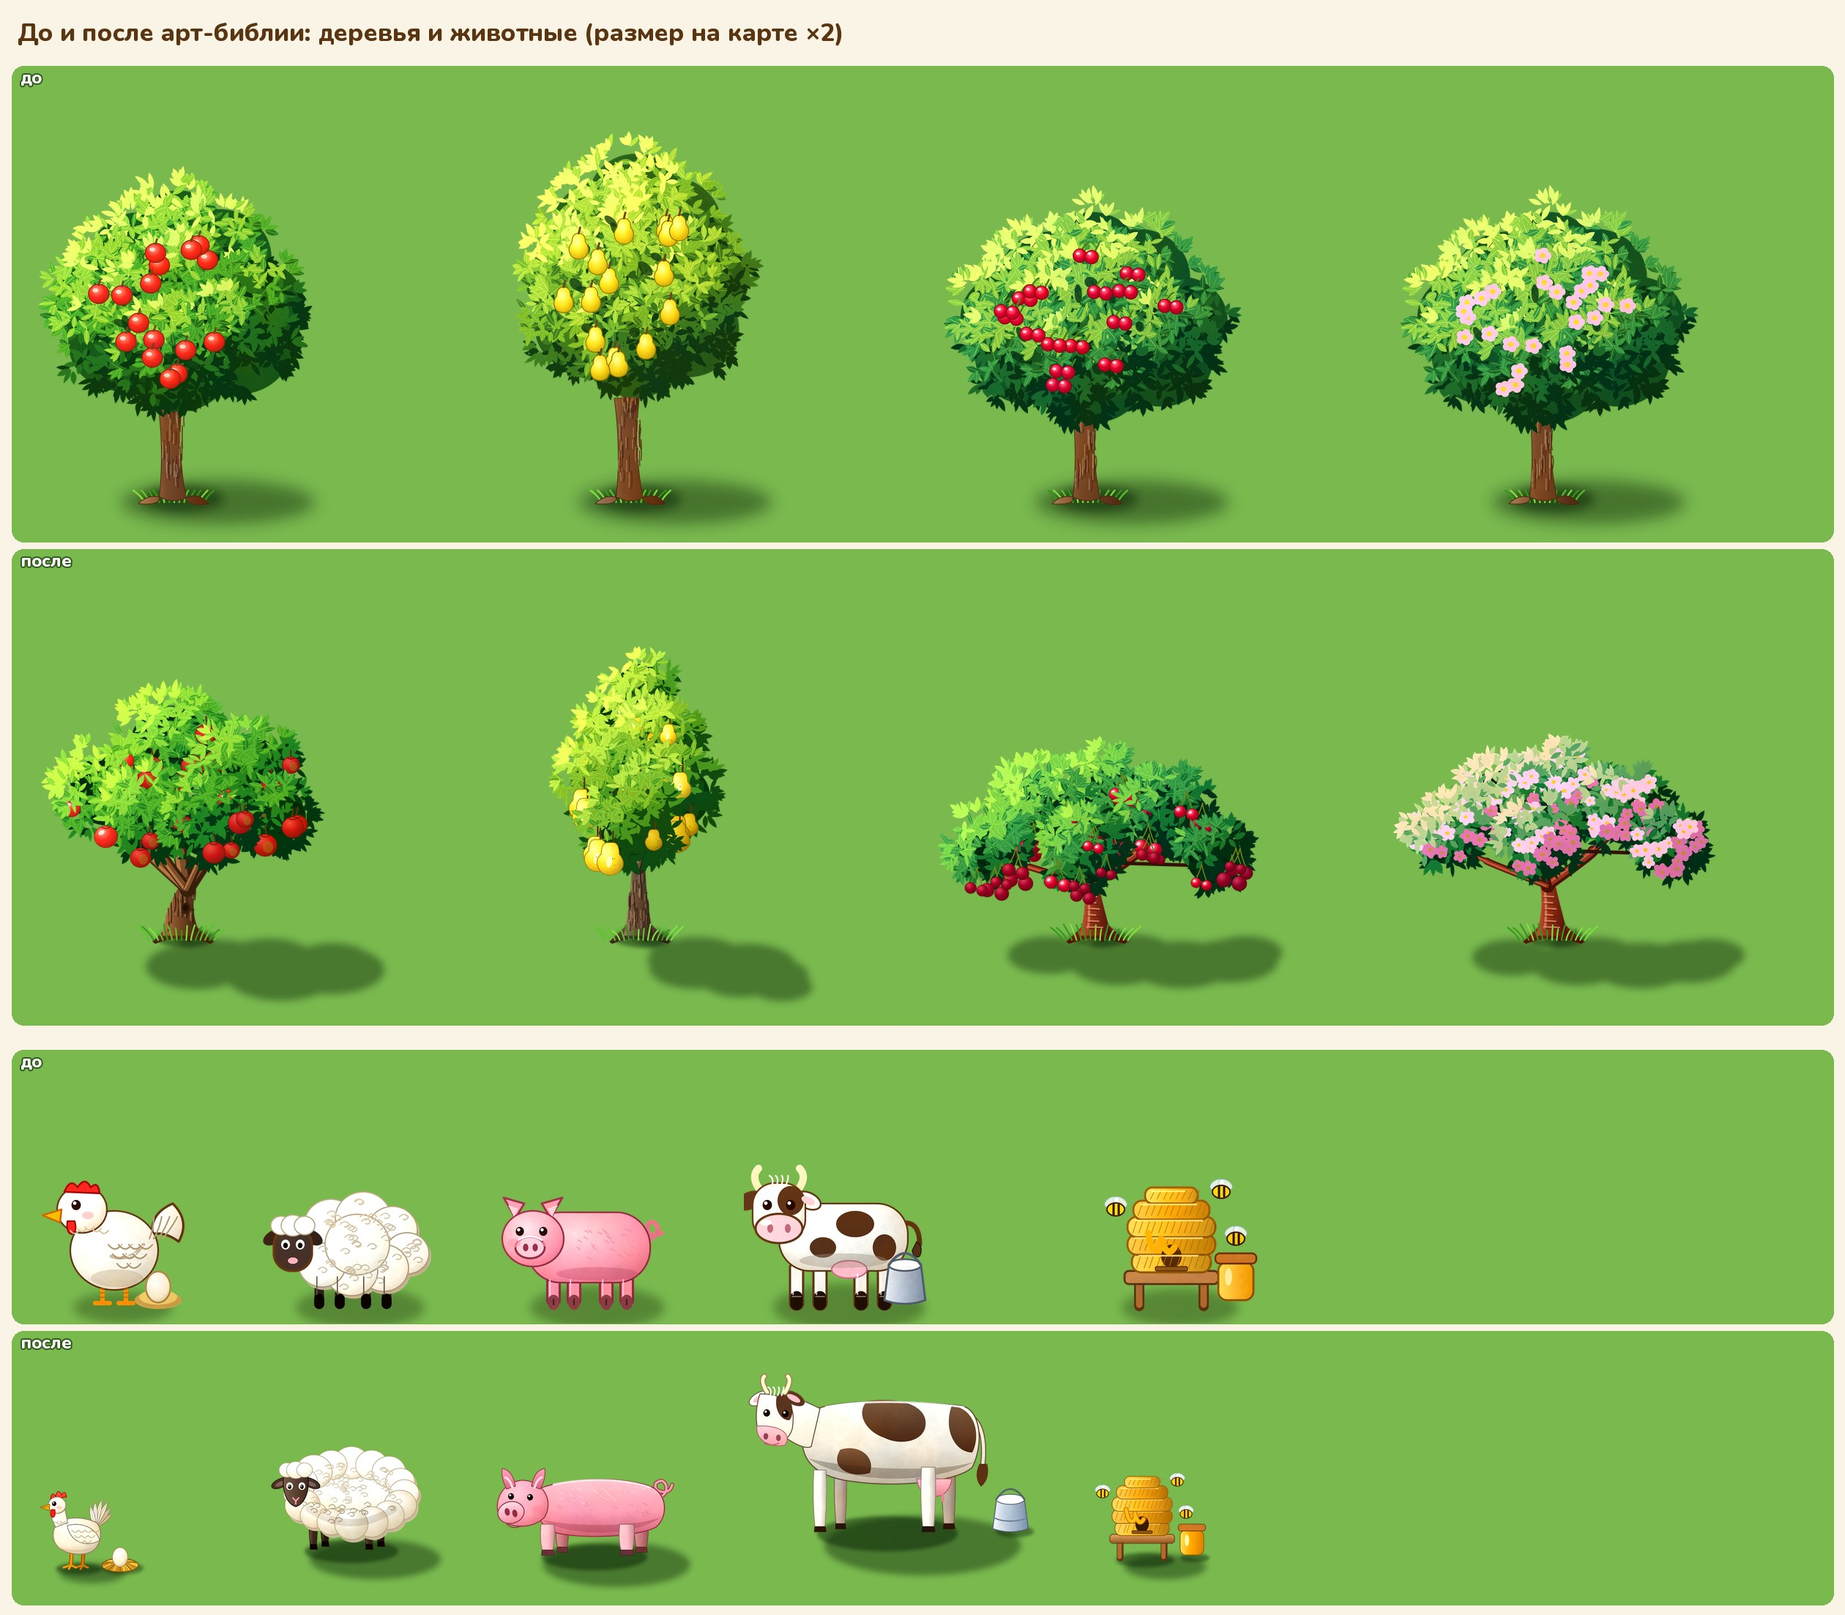
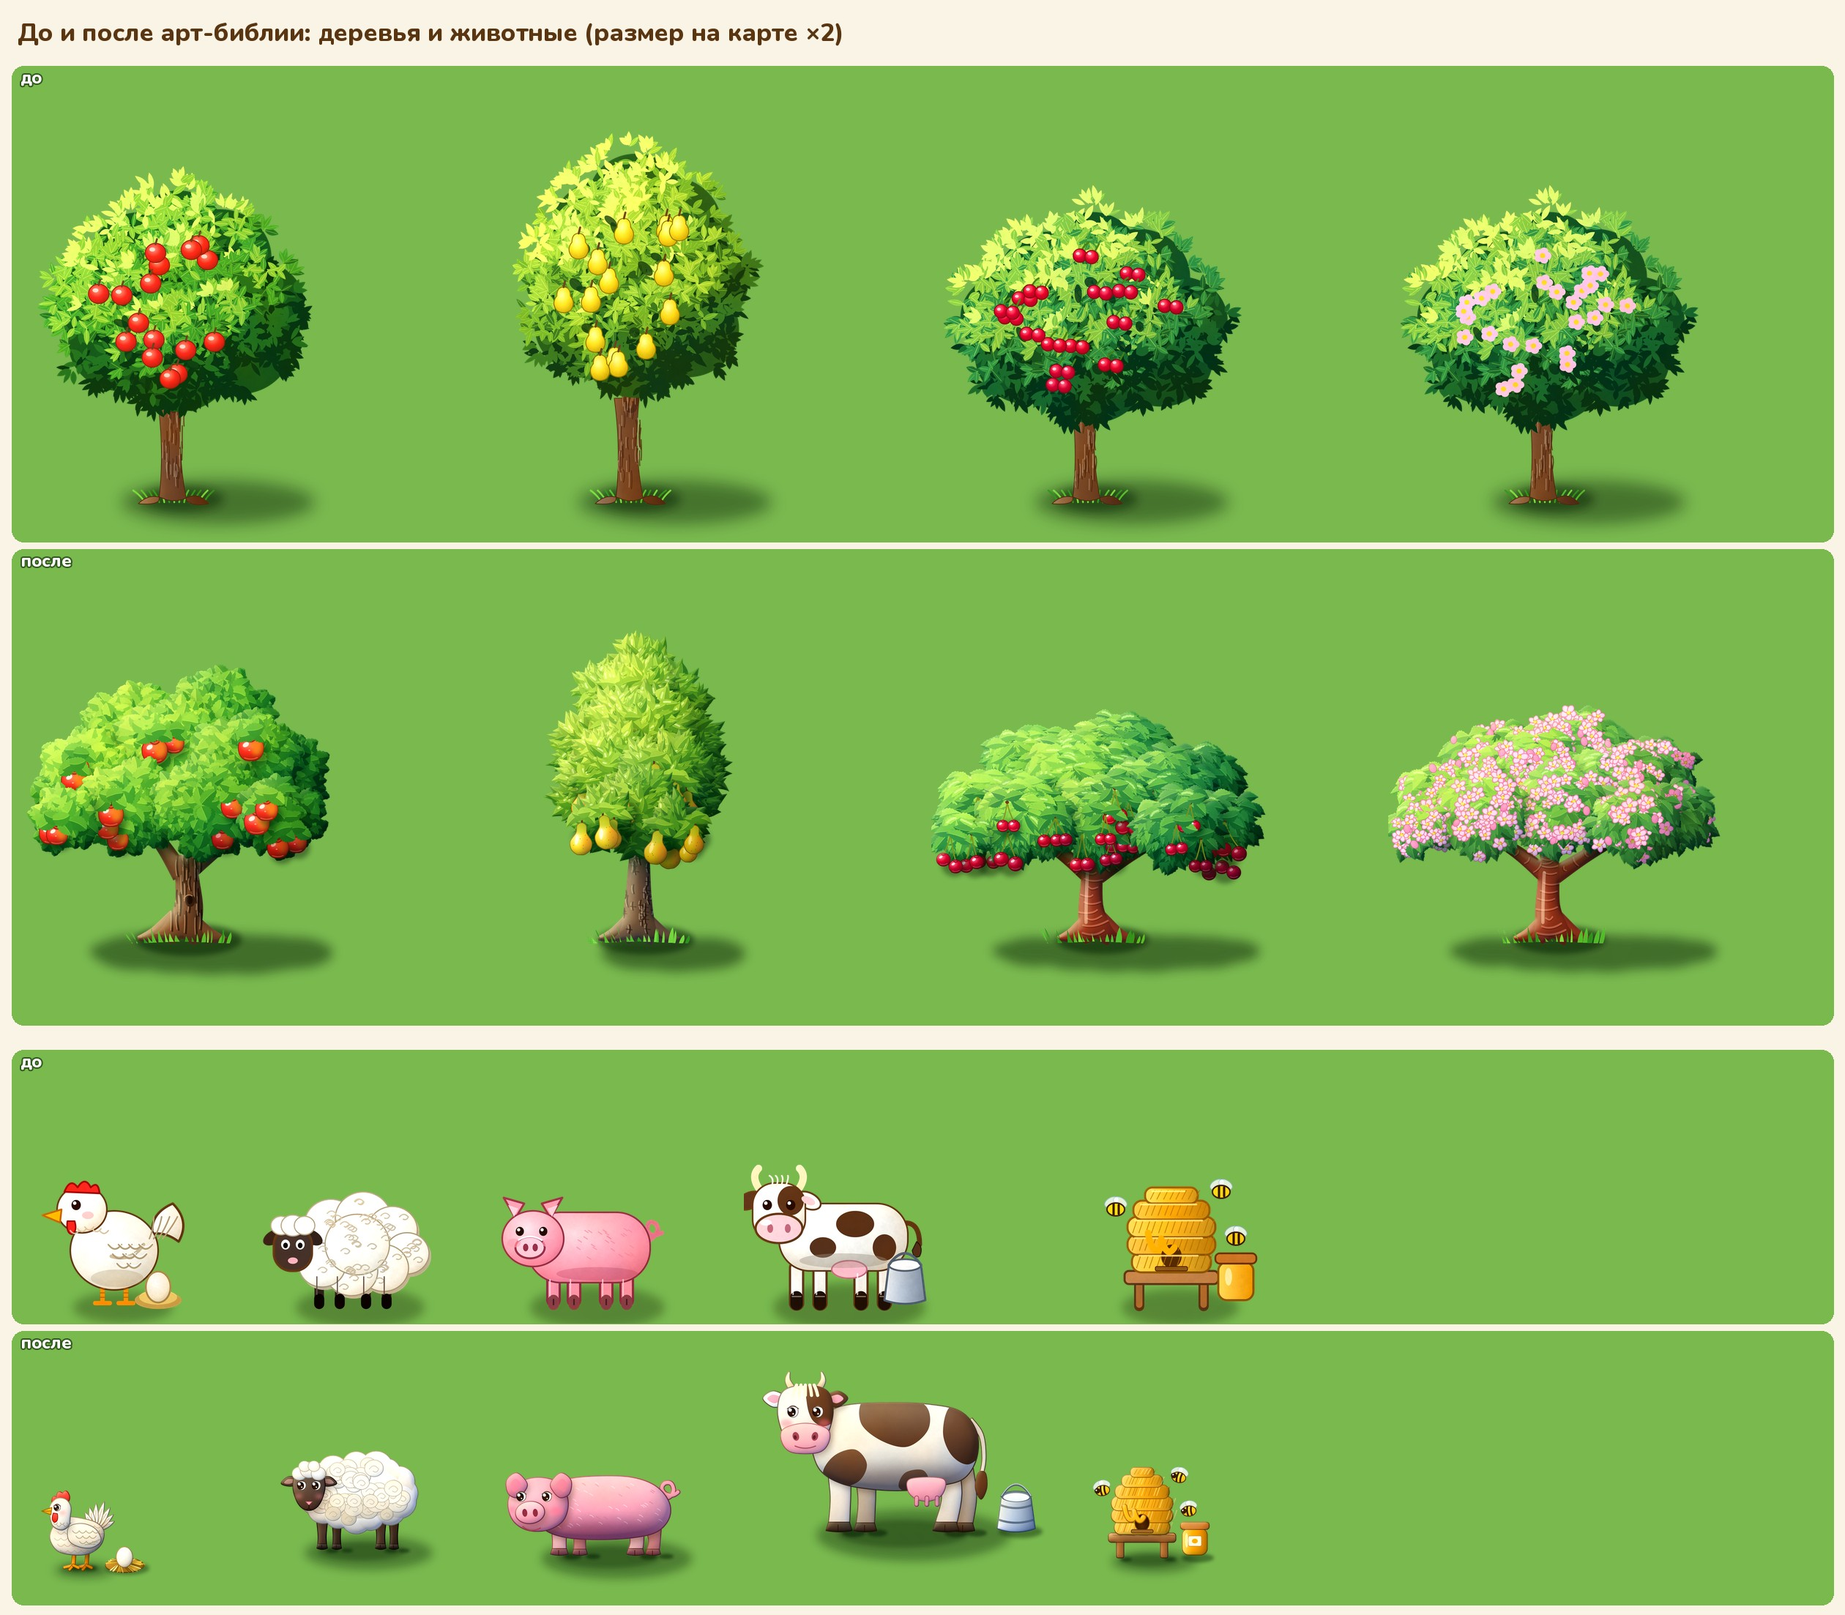
farm docs: art bible §11a (layers and volume), previews and a before/after sheet of the redraw
Claude-Session: https://claude.ai/code/session_01BJZS6hTYRoqnCjk1j2QnS1

diff --git a/farm/docs/farm-ux/overview.py b/farm/docs/farm-ux/overview.py
@@ -256,9 +256,70 @@ def before_after():
     print("before_after_trees_animals.jpg", out.size)
 
 
+REDRAW_REV = "2068527"       # the flat vector art before the layered, lit redraw
+
+
+def before_after_redraw():
+    """before_after_redraw.jpg: trees, animals, crops and bushes before the redraw (flat vectors) and after it
+    (leaf by leaf, every part lit as a solid) — both at 100% of the files' pixels, so the detail can be judged."""
+    import io
+    import subprocess
+    f = lambda n: ImageFont.truetype(fv.FONT, n)
+
+    def old(name):
+        path = "farm/unity/SunnyValley/Assets/SunnyValley/Resources/Art/Farm/%s.png" % name
+        data = subprocess.run(["git", "show", "%s:%s" % (REDRAW_REV, path)], cwd=HERE, capture_output=True, check=True).stdout
+        return Image.open(io.BytesIO(data)).convert("RGBA")
+
+    def trim(im, box):
+        return im.crop(box) if box else im
+
+    rows = [[("Tree_apple_tree_ripe", None), ("Tree_pear_tree_bloom", None), ("Tree_cherry_tree_ripe", None), ("Tree_apple_tree_leaf_2", None)],
+            [("Animal_cow_ready", None), ("Animal_sheep", None), ("Animal_pig", None), ("Animal_chicken_ready", None), ("Animal_bee_ready", None), ("Bush2", None)],
+            [("Crop_wheat_4", (0, 200, 680, 896)), ("Crop_corn_4", (0, 200, 680, 896)), ("Crop_strawberry_4", (0, 200, 680, 896)), ("Crop_pumpkin_4", (0, 200, 680, 896)), ("Plot", None)]]
+    pad = 20
+    plot = fv.art("Farm/Plot")
+    sets = []
+    for row in rows:
+        pair = []
+        for which in (0, 1):
+            ims = []
+            for (n, box) in row:
+                im = old(n) if which == 0 else fv.art("Farm/" + n)
+                if n.startswith("Crop_"):
+                    under = Image.new("RGBA", im.size, (0, 0, 0, 0))
+                    pl = old("Plot") if which == 0 else plot
+                    under.alpha_composite(pl, (0, im.height - pl.height))
+                    under.alpha_composite(im)
+                    im = under
+                ims.append(trim(im, box))
+            pair.append(ims)
+        sets.append(pair)
+    W = max(sum(im.width + pad for im in pair[0]) for pair in sets) + pad
+    H = 90 + sum(2 * (max(im.height for im in pair[0]) + 40) + pad for pair in sets)
+    out = Image.new("RGBA", (W, H), PAPER + (255,))
+    d = ImageDraw.Draw(out)
+    d.text((pad, 44), "До и после перерисовки: деревья, животные, культуры (100% пикселей файла)", font=f(40), fill=INK, anchor="lm")
+    y = 90
+    for pair in sets:
+        h = max(im.height for im in pair[0])
+        for label, ims in zip(("до", "после"), pair):
+            d.rounded_rectangle([pad - 8, y, W - pad + 8, y + h + 30], 16, fill=(121, 185, 78, 255))
+            d.text((pad + 6, y + 20), label, font=f(30), fill="white", anchor="lm", stroke_width=2, stroke_fill=(50, 90, 30))
+            x = pad
+            for im in ims:
+                out.alpha_composite(im, (x, y + 30 + h - im.height))
+                x += im.width + pad
+            y += h + 40
+        y += pad
+    out.convert("RGB").save(os.path.join(HERE, "before_after_redraw.jpg"), quality=88)
+    print("before_after_redraw.jpg", out.size)
+
+
 if __name__ == "__main__":
     overview()
     one_to_one()
     sheet()
     sheets_100()
     before_after()
+    before_after_redraw()

diff --git a/farm/docs/ART_BIBLE.md b/farm/docs/ART_BIBLE.md
@@ -32,7 +32,10 @@
 - **Один ключевой свет: слева сверху от зрителя.** Верхние плоскости самые светлые, плоскости, смотрящие влево
   (стена `u = const`), освещены, плоскости, смотрящие вправо (стена `v = const`), в тени с лёгким холодным
   оттенком (`#2c2c60`, 14%).
-- **Падающая тень** лежит на земле **вправо и чуть вниз**: направление на экране `(+1; +0,35)` (≈ 19° ниже
+- **Тень дерева, куста и животного лежит под ним** и касается опоры: пятно по форме кроны (тела), сдвинутое
+  вправо и чуть вниз не дальше трети ширины, `#0e2010`, 0,36–0,46, край мягкий на 3–4 единицы. Тень, уехавшая
+  от ствола в сторону, читается как отдельное пятно — так не делаем. Для зданий и дворов действует правило ниже.
+- **Падающая тень** (здания, дворы) лежит на земле **вправо и чуть вниз**: направление на экране `(+1; +0,35)` (≈ 19° ниже
   горизонтали), в плитках это `(+0,25; −1)`. Длина = **0,6 высоты** объекта. Цвет `#0e2010`, непрозрачность
   **0,40**, край мягкий на 2–3 единицы карты. Тень повторяет форму объекта (кроны, крыши), а не эллипс «где-то рядом».
 - **Контактная тень** — у каждого касания земли (ствол, ноги, цоколь, столбы, мешки, бочки): `#0e2010`,
@@ -163,10 +166,34 @@
   (ASTC на Android), альфа — прозрачность. Бюджет папки `Art/Farm` — до 40 МБ исходников; в сборке после
   сжатия — до 12 МБ.
 
+## 11а. Слои и объём (деревья, кусты, животные, культуры, грядка)
+
+Плоской заливки с градиентом мало: объект собирается из **слоёв**, и каждый слой освещается как мягкое тело
+(`iso.Art.layer`, `iso.relief_shade`): высота слоя — его размытый силуэт, нормаль — наклон этой высоты, свет —
+общий (слева сверху). Освещённая сторона уходит к тёплому свету `#fff2c4`, теневая умножается к холодной
+тёмной; слой бросает мягкую тень на слои под ним (но не на пустую землю). Так получаются объём без размытия
+контуров и «прикреплённые» тени между частями.
+
+- **Дерево.** Крона — 10–14 масс (сфер) в три плана; масса — 6–7 пучков; пучок — отдельные листья. Тон листа
+  считается из нормалей пучка, массы и всей кроны, поэтому крона читается телом со светлой и теневой
+  сторонами. Листья нижнего слоя пучка темнее. Каждый лист — две половины (свет/тень) и жилка.
+  - яблоня: лист овальный, зубчатый, 12,5 × 10; крона широкая, неровная; ствол короткий, толстый, с дуплом;
+  - груша: лист вытянутый, заострённый, глянцевый (блик-штрих), смотрит вверх; крона — стоячий овал;
+  - вишня: лист длинный (15,5), пильчатый, свисает вниз; крона зонтом; кора красно-бурая с чечевичками.
+  - Ствол: расширение у корней (1,5 ширины), четыре корневые лапы, развилка и 3–4 сука, уходящие в массы;
+    на верх ствола ложится тень кроны.
+  - Плод висит на своём побеге внутри массы: под ним тень на листве, сверху его прикрывают 3–4 листа того
+    же побега. Цветы — пятилепестковые, кистями по 2–4, часть бутонами, часть под листьями.
+- **Животное.** Дальние ноги, ближние ноги, хвост, туловище, вымя, уши и рога, голова, морда — отдельные слои.
+  Ноги уходят под туловище. Глаза крупные, с двумя бликами; румянец; контур тонкий, тонированный.
+- **Культура.** Каждый ряд растений — слой, затеняющий ряд за собой. У каждой культуры свой лист (лента,
+  перистая ветвь, тройчатый зубчатый, лопастной) и свой плод, видимый в спелой стадии.
+- **Грядка.** Шесть округлых гряд с бороздами между ними, комья, срез земли по бортам, трава у подножия.
+
 ## 12. Чек-лист спрайта
 
 1. Стоит по сетке раздела 1; вертикали вертикальны.
-2. Свет слева сверху; тень на земле вправо-вниз по разделу 2; контактная тень у каждой опоры.
+2. Свет слева сверху; тень на земле по разделу 2 (у деревьев и животных — под объектом, касается опоры); контактная тень у каждой опоры.
 3. Цвета из раздела 3; нет чёрного, нет неона.
 4. Контур по разделу 4.
 5. Четыре ступени тона, сгруппированные; блики только на свету.
@@ -174,4 +201,5 @@
 7. Опорная точка на земле, тень не обрезана холстом.
 8. Силуэт отличим от соседей по семье; есть варианты, где ряд.
 9. Все состояния на месте; плоды и цветы в форме, а не поверх.
+9а. Объём по разделу 11а: части — слоями, у каждой свет и тень, тени частей друг на друге.
 10. Нет размытия, кроме теней; нет повторов «под копирку».

diff --git a/farm/docs/FARM_UX.md b/farm/docs/FARM_UX.md
@@ -81,7 +81,8 @@
 
 Посмотреть: `farm-ux/00_overview.png` — вся ферма; `00_overview_1to1_*.png` — её части в масштабе 1 пиксель на
 единицу карты (родное разрешение фонов); `sprites.png` — все картинки в размере игры; `sprites_100_*.jpg` — все
-картинки в 100% своих пикселей; `before_after_trees_animals.jpg` — деревья и животные до и после арт-библии.
+картинки в 100% своих пикселей; `before_after_trees_animals.jpg` — деревья и животные до и после арт-библии;
+`before_after_redraw.jpg` — деревья, животные и культуры до и после перерисовки слоями (раздел 11а арт-библии).
 
 Боковые кнопки «Поля», «Животные», «Цеха» больше не открывают списки: камера летит к этой части фермы, к тому,
 что ждёт руки (красная точка на кнопке осталась). «Амбар», «Заказы», «Городок» — окна.
